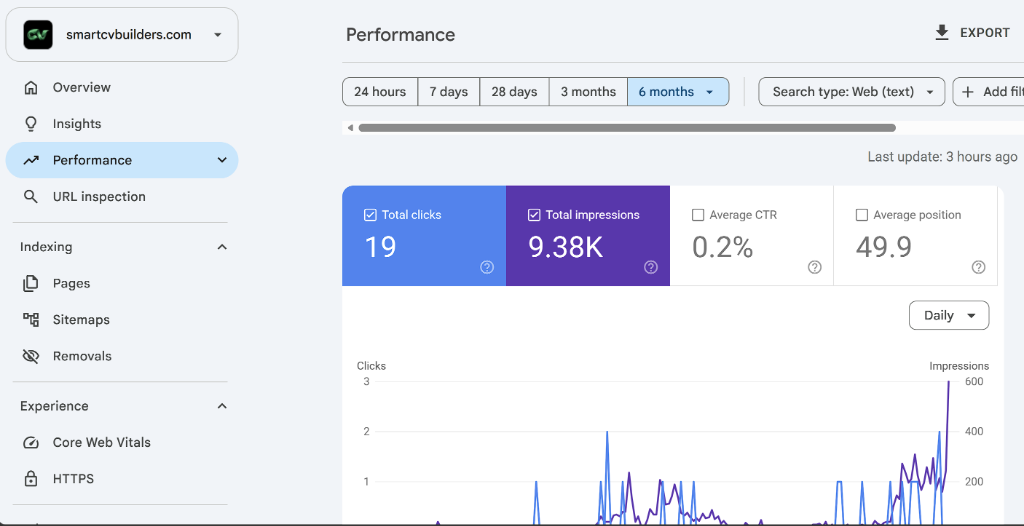
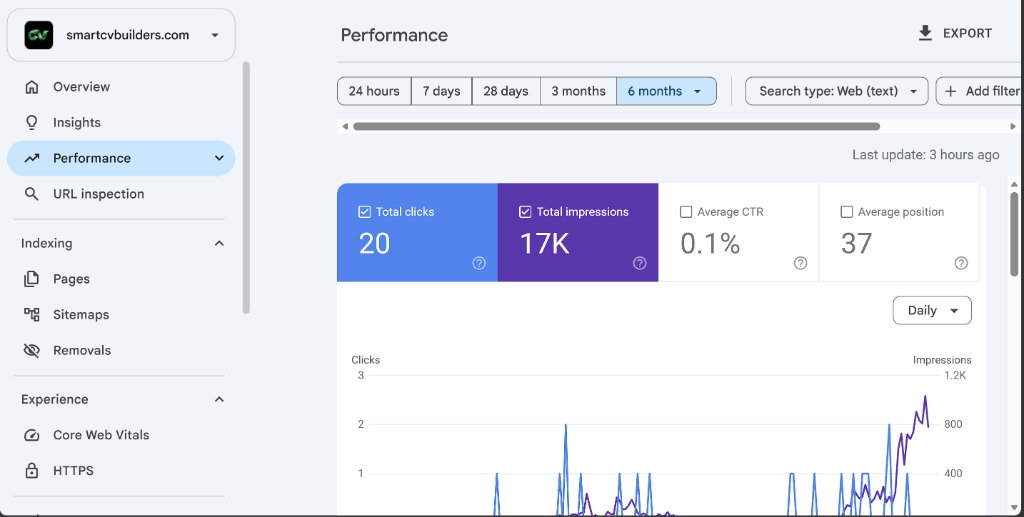
feat(case-study): update SmartCV Search Console metric to 17K+ impressions and new 6-month growth screenshot

diff --git a/index.html b/index.html
@@ -3989,7 +3989,7 @@ body.dark .logo-source-btn:hover .logo-source-arrow {
                 <span class="case-metric-lbl">Dynamic Templates</span>
               </div>
               <div class="case-metric-box">
-                <span class="case-metric-val">9.3K+</span>
+                <span class="case-metric-val">17K+</span>
                 <span class="case-metric-lbl">Search Impressions (and growing)</span>
               </div>
               <div class="case-metric-box">
@@ -4405,15 +4405,15 @@ body.dark .logo-source-btn:hover .logo-source-arrow {
 
     <!-- SECTION 04: SEO STRATEGY & ORGANIC GROWTH -->
     <span class="case-section-tag">04 / SEO Engineering &amp; Organic Growth</span>
-    <h2>From 4–5 Daily Impressions to 400+ Daily Impressions</h2>
+    <h2>From 4–5 Daily Impressions to 17K+ Total Impressions</h2>
     <p>When SmartCV Builders first launched, it received almost zero organic discovery—averaging only <strong>4 to 5 impressions per day</strong> on Google. Rather than giving up or relying on paid traffic, I spent time studying web SEO strategy from first principles: I restructured the site's page titles, wrote clear, click-optimized meta descriptions, and ensured high-intent resume keywords were naturally integrated across every single template and page.</p>
 
-    <p>Within months of executing this SEO strategy, organic visibility scaled exponentially: the site now consistently pulls <strong>400+ impressions per day</strong> (peaking at 480+ daily impressions) and has accumulated over <strong>9.38K+ total search impressions</strong> on Google Search Console—entirely organic, zero ad spend.</p>
+    <p>Within months of executing this SEO strategy, organic visibility scaled exponentially: the site has surged to over <strong>17K total search impressions</strong> on Google Search Console—adding over 4,000 organic impressions in just 3 days and peaking above 1,000+ daily impressions—entirely organic, zero ad spend.</p>
 
     <div class="g2">
       <figure>
-        <img src="images/smartcv-search-console-6months.png?v=1" alt="Google Search Console 6-month performance chart showing 9.38K total search impressions and steady organic growth curve" loading="lazy" decoding="async">
-        <figcaption><strong>6-Month Macro Growth:</strong> 9.38K+ total organic search impressions accumulated with a steady upward trajectory.</figcaption>
+        <img src="images/smartcv-search-console-6months.png?v=2" alt="Google Search Console 6-month performance chart showing 17K total search impressions and exponential organic growth curve" loading="lazy" decoding="async">
+        <figcaption><strong>6-Month Macro Growth:</strong> 17K total organic search impressions with steep compounding breakout.</figcaption>
       </figure>
       <figure>
         <img src="images/smartcv-search-console-today.png?v=1" alt="Google Search Console 24-hour performance chart showing 482 impressions in a single day" loading="lazy" decoding="async">
@@ -4666,7 +4666,7 @@ body.dark .logo-source-btn:hover .logo-source-arrow {
           </tr>
           <tr>
             <td class="dim-label">Organic Search Reach</td>
-            <td class="dim-value"><strong>400+ Daily Impressions · Steady Organic Growth</strong> (4–5/day at launch → 400+/day, 9,380+ total impressions)</td>
+            <td class="dim-value"><strong>17K+ Total Impressions · Exponential Growth</strong> (4–5/day at launch → 1,000+/day peak, 17K+ total impressions)</td>
           </tr>
         </tbody>
       </table>
